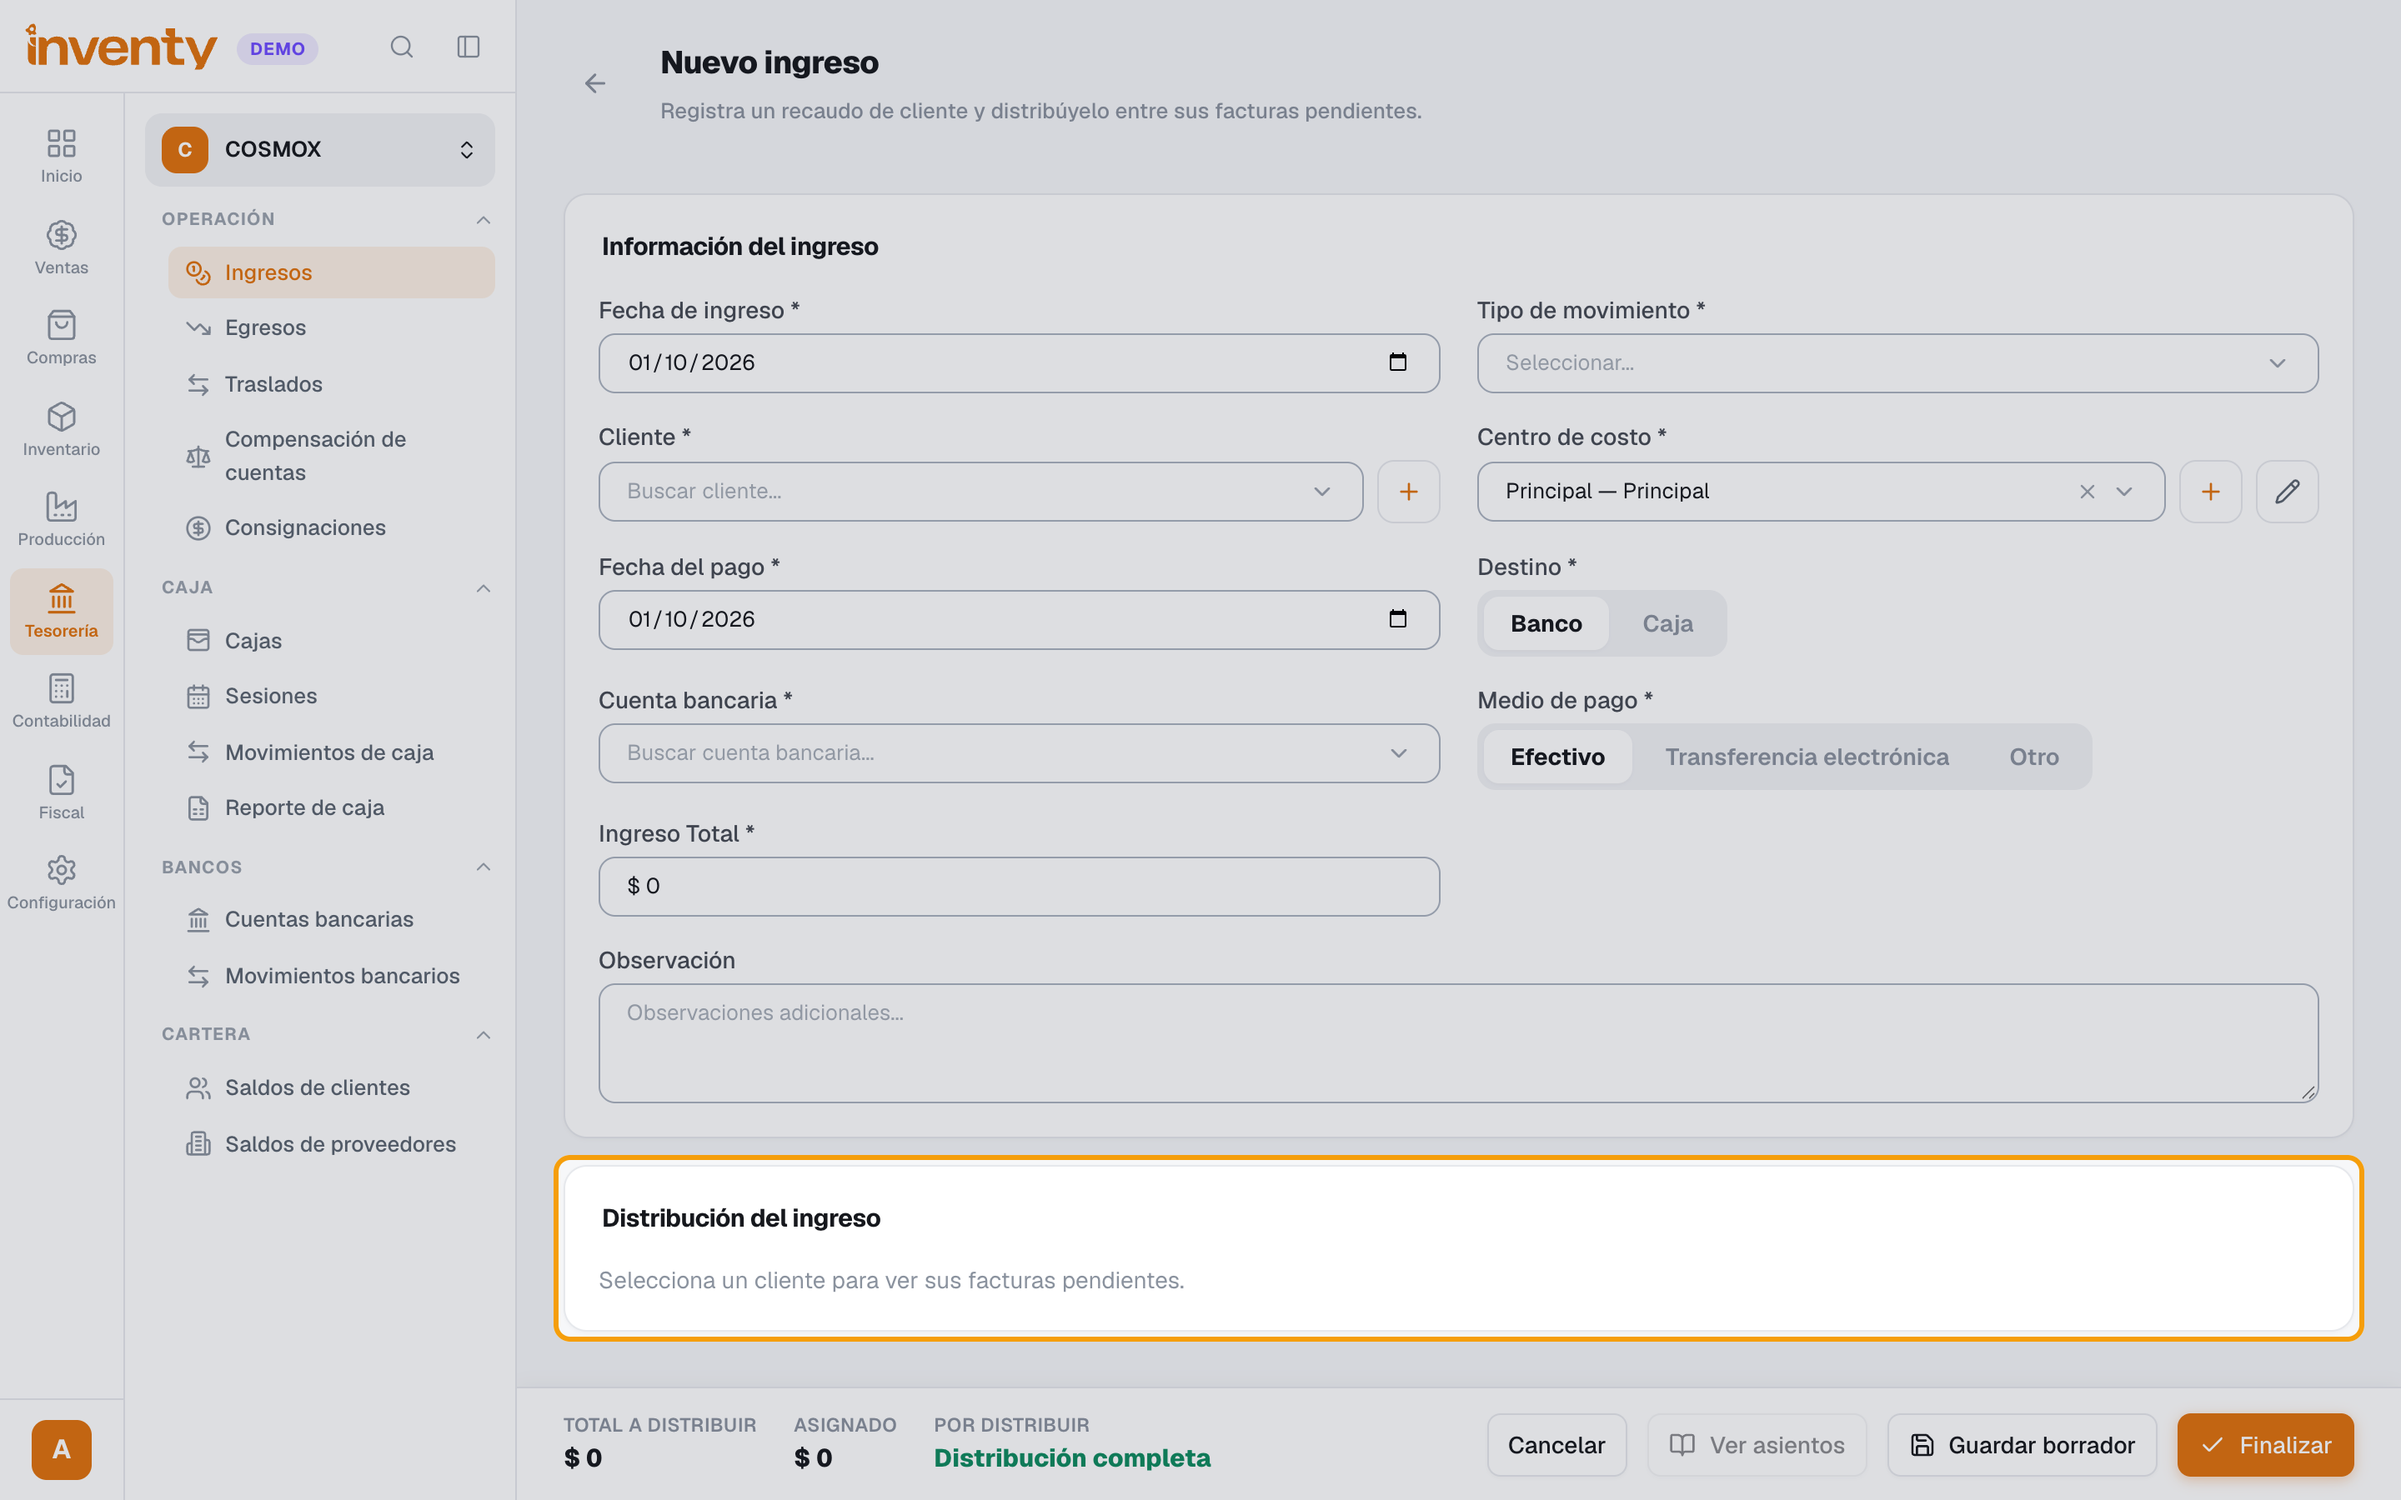
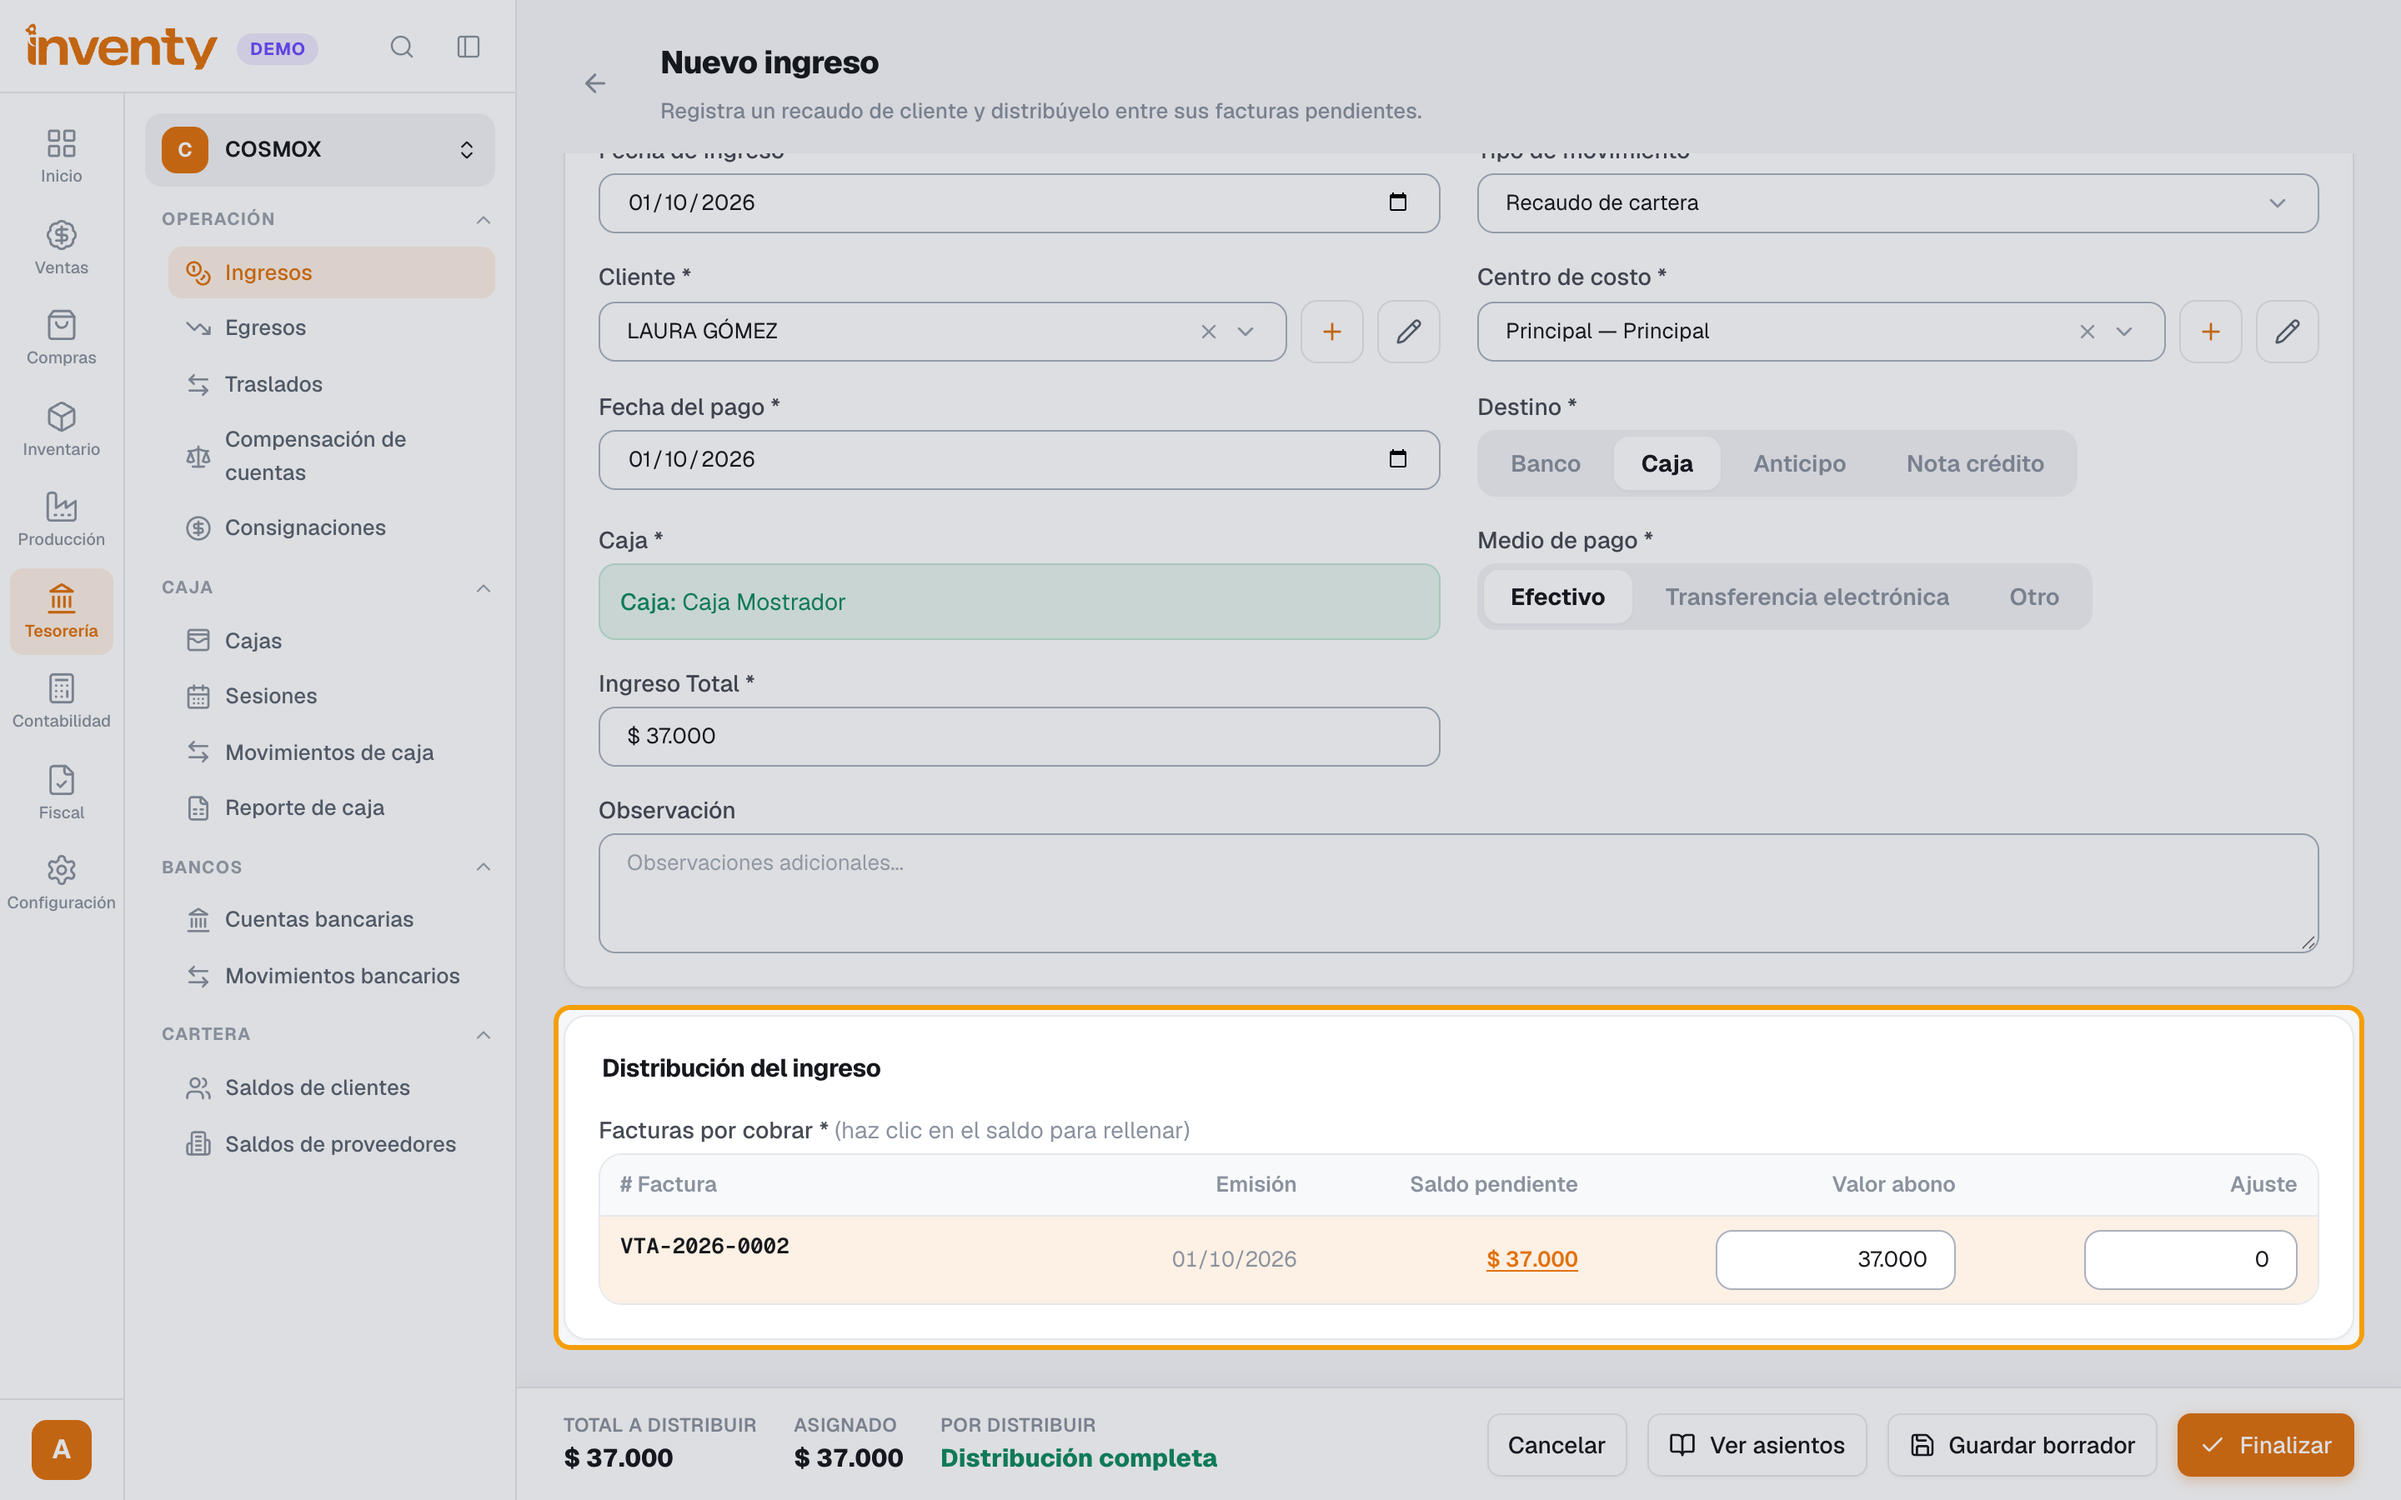
feat: recaudo real de la factura a crédito en la demo; guía de ingresos con destinos reales

diff --git a/docs/finanzas/registrar-ingreso.md b/docs/finanzas/registrar-ingreso.md
@@ -29,11 +29,11 @@ tags:
 
 ![Paso 2: tipo de movimiento y cliente](../assets/capturas/finanzas/registrar-ingreso/paso-2.png)
 
-**Paso 3.** Completa **Centro de costo**, **Fecha del pago**, **Destino** (caja o banco), **Medio de pago** e **Ingreso Total**.
+**Paso 3.** Completa **Centro de costo**, **Fecha del pago**, **Destino** (**Banco**, **Caja**, **Anticipo** o **Nota crédito**; con *Caja* se usa tu caja abierta), **Medio de pago** e **Ingreso Total**.
 
 ![Paso 3: información del ingreso](../assets/capturas/finanzas/registrar-ingreso/paso-3.png)
 
-**Paso 4.** En **Distribución del ingreso**, asigna el valor a las facturas que paga hasta que diga **Distribución completa**.
+**Paso 4.** En **Distribución del ingreso**, haz clic en el **Saldo pendiente** de cada factura que paga: se llena su **Valor abono**. Sigue hasta que **Por distribuir** diga **Distribución completa**.
 
 ![Paso 4: distribución del ingreso](../assets/capturas/finanzas/registrar-ingreso/paso-4.png)
 

diff --git a/gestion/capturas-reporte.md b/gestion/capturas-reporte.md
@@ -1,13 +1,5 @@
 # Reporte de capturas
 
-> Generado por `npm run capturas` el 1/10/2026, 12:42:17 p. m.. Ambiente: https://erp.cosmox.tech
+> Generado por `npm run capturas` el 1/10/2026, 12:44:02 p. m.. Ambiente: https://erp.cosmox.tech
 
-**1** capturas tomadas · **3** fallas · **61** imágenes siguen pendientes.
-
-## Fallas
-
-| Guía | Paso | Detalle |
-|---|---|---|
-| facturacion-electronica/documento-rechazado.md | 2 | Captura manual: menú de acciones de un documento Rechazado por DIAN con la opción Ver error (requiere empresa habilitada) |
-| facturacion-electronica/documento-rechazado.md | 3 | Captura manual: ventana Ver error con el mensaje de la DIAN |
-| facturacion-electronica/documento-rechazado.md | 4 | Captura manual: menú de acciones con Reenviar documento electrónico |
+**5** capturas tomadas · **0** fallas · **60** imágenes siguen pendientes.
